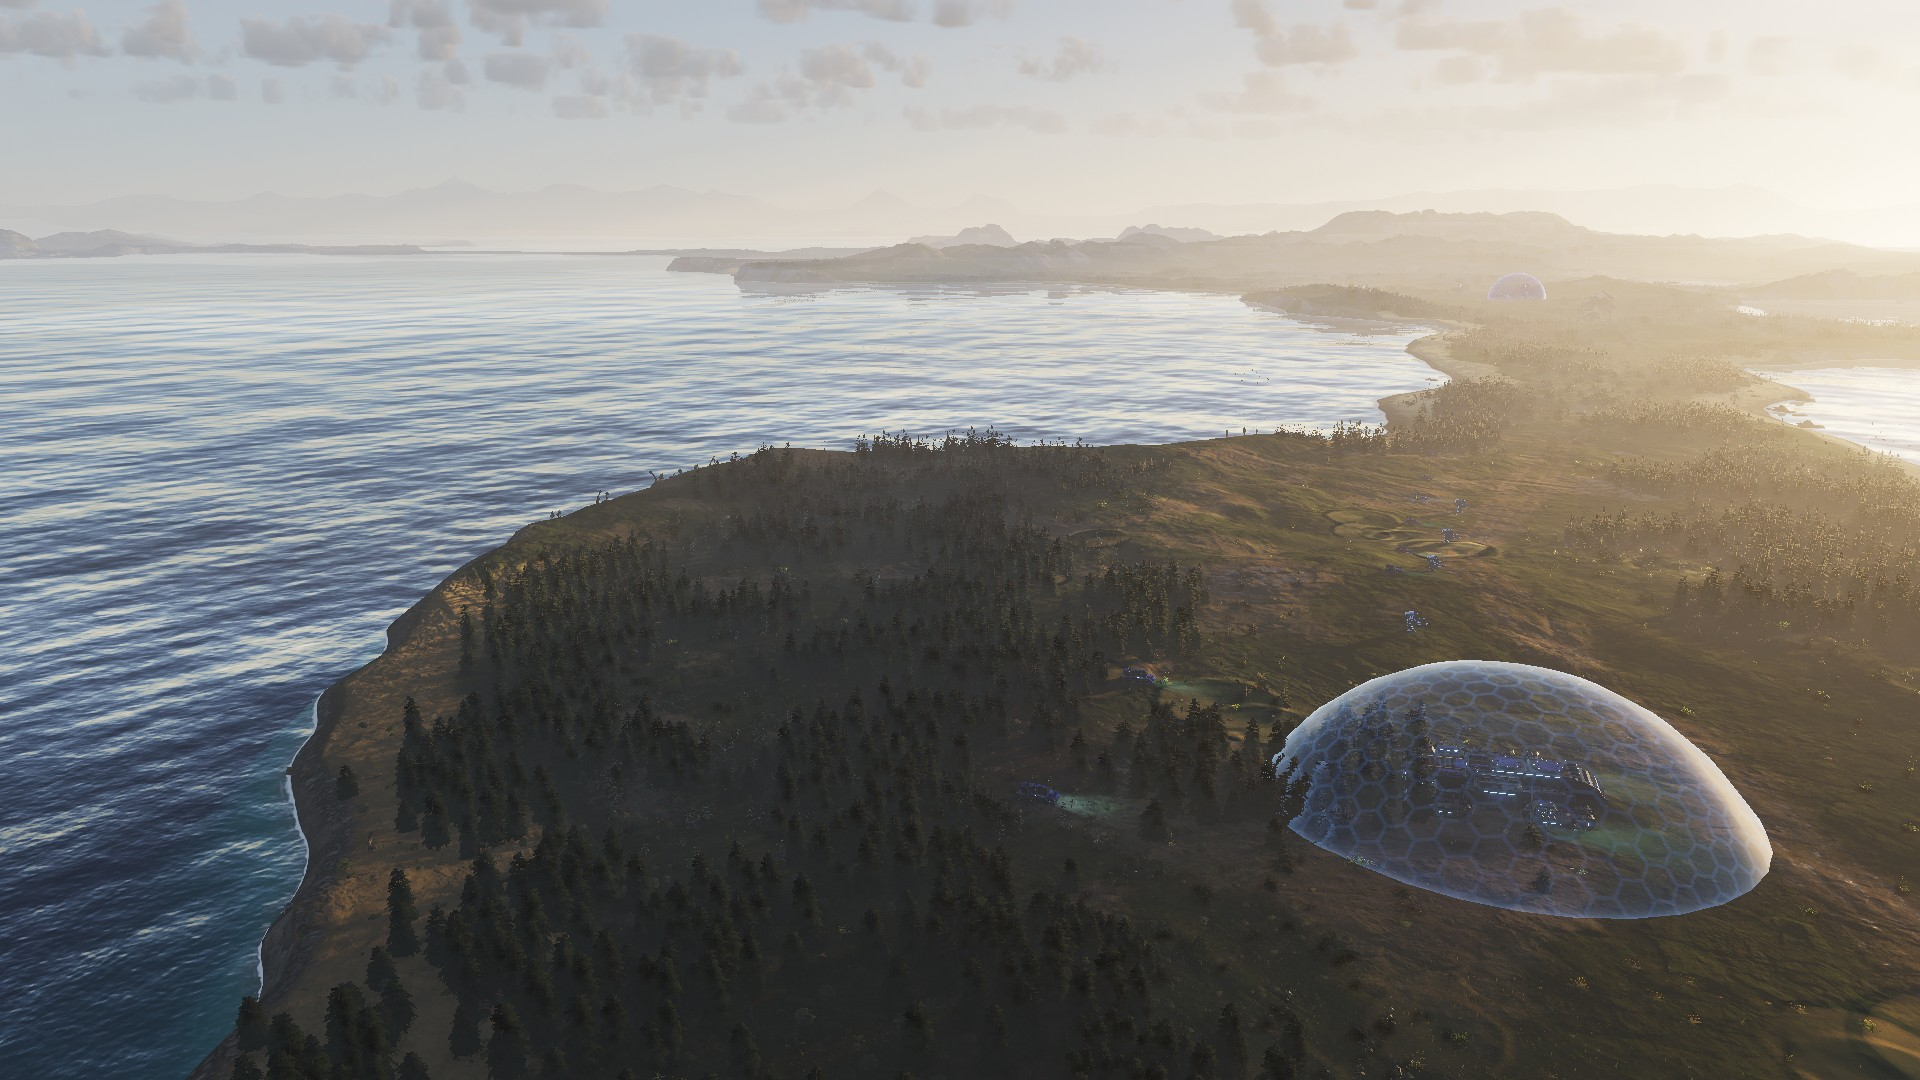
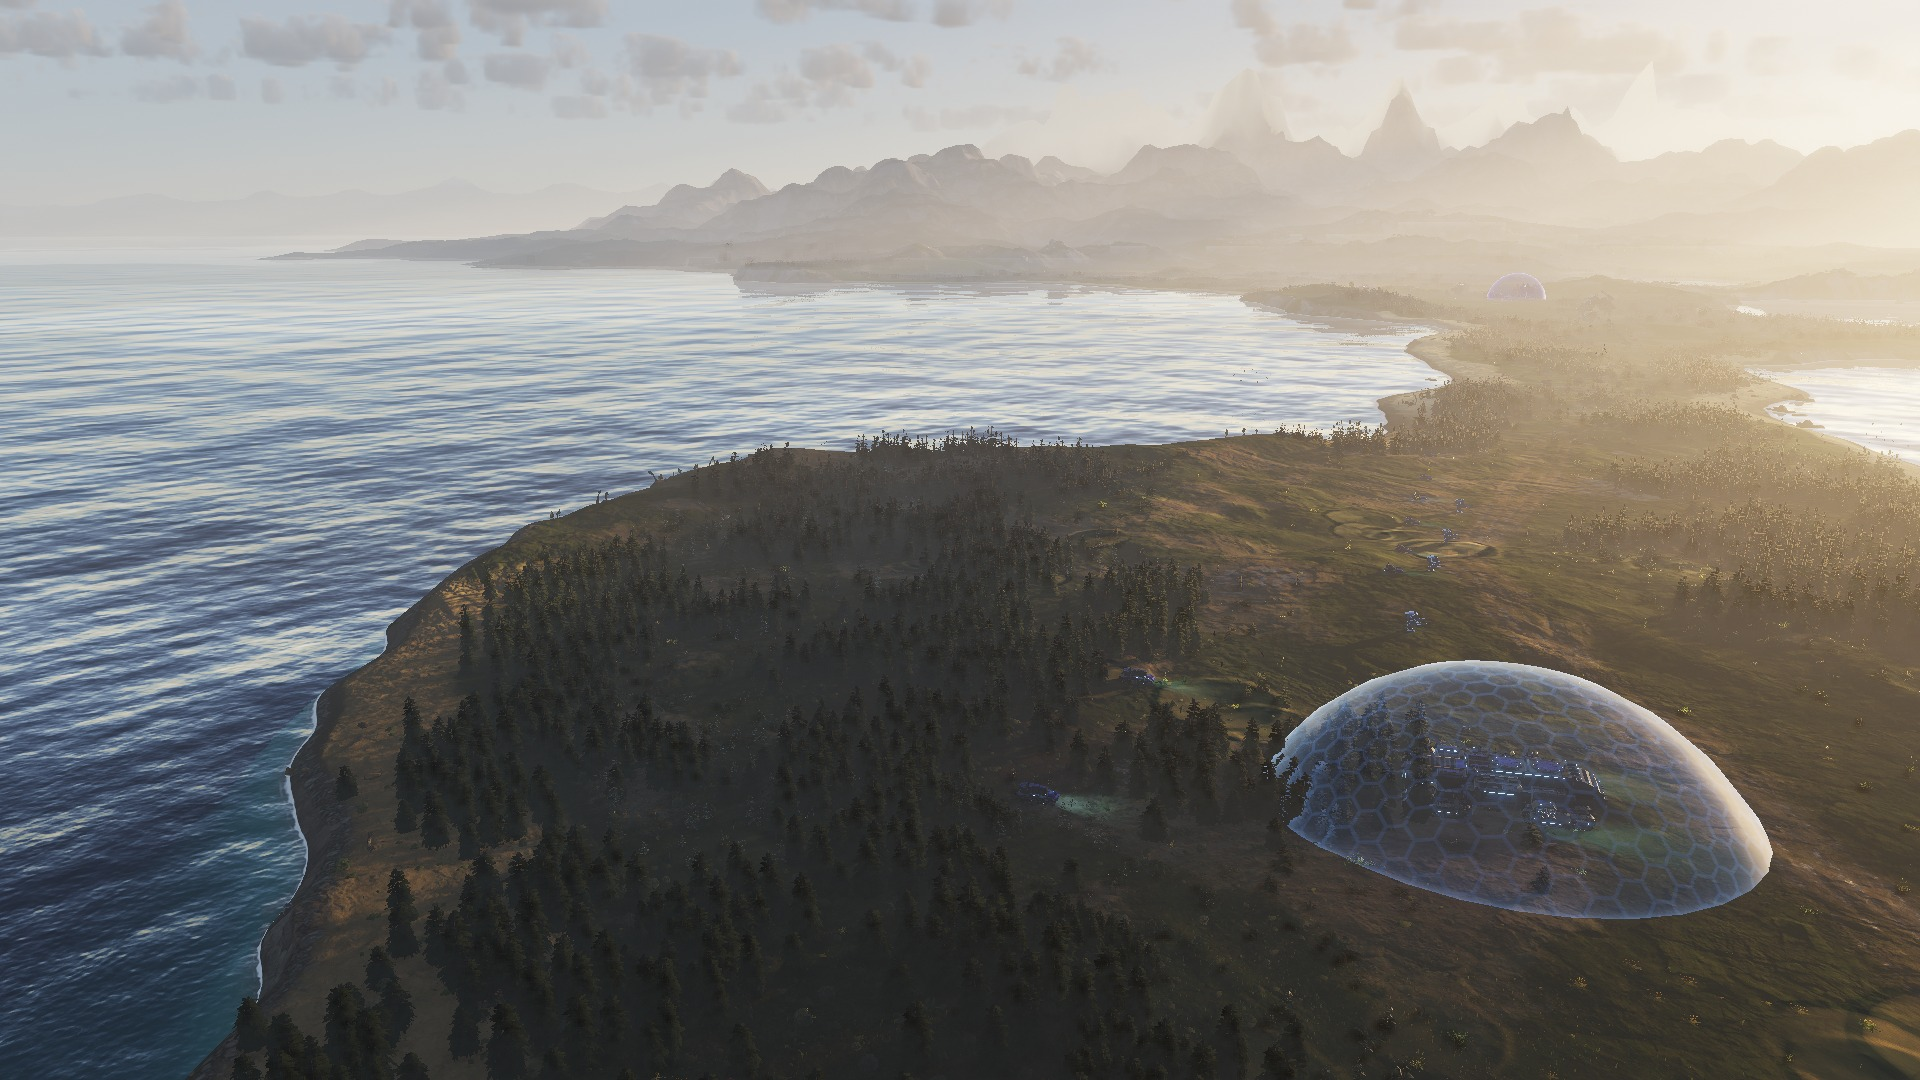
ui: the menu's first-start picture retaken with the land round the map; the live window's results for 71 B
ui/data/menuflight/first_frame.jpg: the flight's first frame as the program keeps it now (a live window at
1920x1080 with the looks a new player starts with): the map's own sculpted land stands on the horizon where the
mirrored map was. A first start shows it until the flight is live, as before.

docs/ui-answers.md, request 71 B: what the live window showed on 2026-11-11 (a game with four recoveries and a
real device loss: 49 checks, 0 failed, the game's time going on across them; the menu with its flight, two
recoveries: 16 checks, 0 failed), and what is still not tested. ui/tests/device_lost.lua's header says so.

Changed region(s): [[0.0, 0.0917, 1.0, 0.275], [0.875, 0.3667, 0.9062, 0.3972]]

diff --git a/docs/ui-answers.md b/docs/ui-answers.md
@@ -41,9 +41,16 @@ Tested without a window only: a game's own picture and the menu background's own
 check, a second right after, and a real loss by `RemoveDevice` (noticed at Present / "allocating a frame upload
 page"; each picture back after 4 to 7 s at 1080p on stock Seton's and SETONS_R on a quiet PC, up to 19 s beside a
 build); the photo dropped and the next one made; the close.
-NOT tested, because it needs a live window: the window's picture (the layer, the backdrop, the flight, the second
-window, a map opening behind), and two pictures at once (the program never has two). Relied on, from your header:
-`Beat` may run on the beats' thread while `RecoverDevice` runs on the frames' thread.
+IN A LIVE WINDOW (2026-11-11 06:53-07:06, 1920x1080, Chris's screen, the run's own shader folder): the window's
+picture came back each time with the interface over it and the game going on. A game: four recoveries of a device
+not lost (9.4, 5.9, 5.1 and 6.9 s from the frame that asked: the device 0.35 s, the map 4.5 to 5.9 s, 5470 props'
+states carried over), then a REAL loss (`LoseDeviceForTest`: 0x887a0005, noticed at Present) and its recovery:
+`device_lost.lua -- /devicecase lose`, 49 checks, 0 failed; tick 81 before the first recovery, 122 two seconds after
+it, so `Beat` on the beats' thread while `RecoverDevice` ran on the frames' thread held. The menu with the flight:
+two recoveries (11.9 and 10.5 s, the map 10.8 and 9.4 s), the evening and the flight's air on the new world, the
+battle going on: 16 checks, 0 failed.
+STILL not tested: the second window after a recovery, a map opening behind at the moment of the loss, the read-back
+host step (`--gdi`), Vulkan, a real driver reset; and two pictures at once (the program never has two).
 
 
 ## renderer, request 71 (render/REQUESTS.md): the land round the map by default, dxcompiler.dll, a lost device (2026-11-10)
